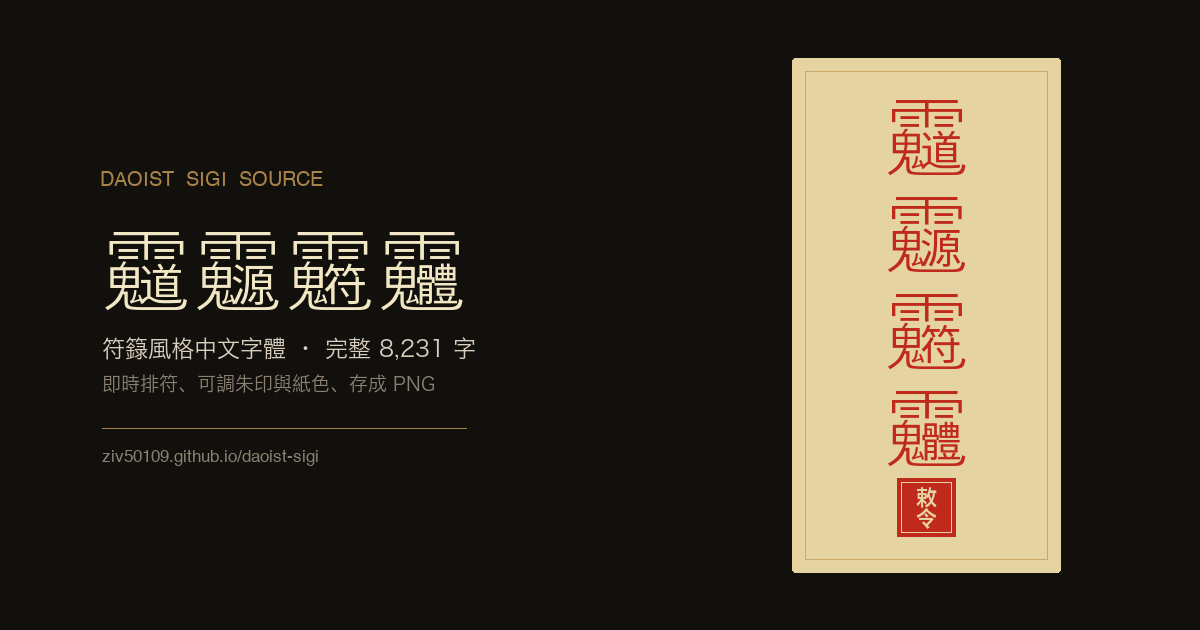
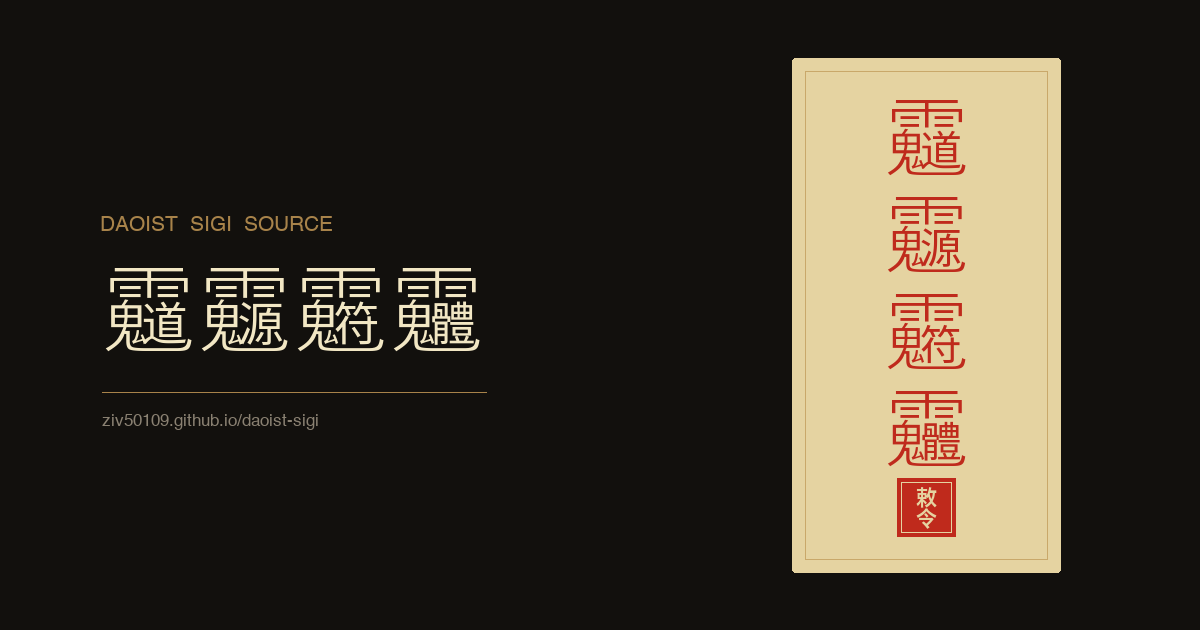
行長可調、空符紙狀態、法印改用系統字體
行長滑桿決定每行幾字，拉到底不換行。排版方向的尺寸直接算出固定長度：
block 元素預設撐滿容器，max-width／max-height 輪不到生效；改用 max-content
配上限則會讓 Chrome 在直排把餘數擠到第一列。直排的字身推進不是 1em，量畫面
上第一個字實際佔的長度再乘字數。

匯出改讀元素實際的 font-family 與字重，法印換字體後匯出才跟畫面一致。

Changed region(s): [[0.0925, 0.3317, 0.4008, 0.6333], [0.0925, 0.6635, 0.2775, 0.754], [0.0617, 0.2714, 0.2775, 0.3016]]

diff --git a/index.html b/index.html
@@ -162,7 +162,9 @@ input[type=range]{flex:1;accent-color:var(--cinnabar);background:transparent}
     repeating-linear-gradient(90deg,rgba(120,86,30,.024) 0 1px,transparent 1px 4px);
   padding:34px 28px;
   box-shadow:0 22px 54px rgba(0,0,0,.55),0 0 0 1px rgba(0,0,0,.25);
-  max-width:100%;
+  /* 不夾在容器寬度內：行長由使用者決定，超出的部分交給 .stage 捲動，
+     匯出量的是符紙整塊 rect，夾住的話會被裁掉 */
+  max-width:none;
 }
 .paper.plain{
   --sheet:#f4f1e8;
@@ -198,14 +200,16 @@ input[type=range]{flex:1;accent-color:var(--cinnabar);background:transparent}
   color:var(--cinnabar);white-space:pre-wrap;word-break:break-word;
   position:relative;z-index:1;
 }
-.text.vert{writing-mode:vertical-rl;text-orientation:upright;max-height:56vh}
+.text.vert{writing-mode:vertical-rl;text-orientation:upright}
 
 /* ---------- 法印。白文印：字為紙色，底為朱 ---------- */
 .seal{
   position:absolute;z-index:2;
   right:12px;bottom:12px;
   writing-mode:vertical-rl;text-orientation:upright;
-  font-family:"DaoistSigiFull","DaoistSigi",serif;
+  /* 印面不用符體：印格只有 3em 見方，雨鬼頭在這個尺寸會糊成一團 */
+  font-family:var(--fb);
+  font-weight:600;
   font-size:var(--seal-fs,22px);
   line-height:1.06;letter-spacing:0;
   color:var(--sheet);
@@ -219,6 +223,22 @@ input[type=range]{flex:1;accent-color:var(--cinnabar);background:transparent}
 .seal[hidden]{display:none}
 /* 有印時把右下留出來，印才不會壓在字上 */
 body.has-seal .paper{padding-bottom:calc(34px + var(--seal-box,60px))}
+
+/* 不換行時符紙跟著內容長大，溢出交給 .stage 捲動，匯出才不會被裁掉 */
+body.no-wrap .paper{max-width:none}
+
+/* 空符紙的提示。字級固定，不跟著滑桿放大 */
+.ghost{
+  position:absolute;inset:0;display:none;
+  align-items:center;justify-content:center;
+  font-family:var(--fb);font-size:13px;letter-spacing:.04em;white-space:nowrap;
+  color:rgba(35,30,24,.4);
+  pointer-events:none;user-select:none;z-index:1;
+}
+.paper.dark .ghost{color:rgba(217,208,192,.4)}
+body.is-empty .ghost{display:flex}
+/* 沒有字時符紙寬高會塌掉，給一張空紙該有的尺寸 */
+body.is-empty .paper{min-width:212px;min-height:302px}
 
 .hint{margin:12px 0 0;font-size:12px;color:var(--mute)}
 .hint .miss{color:var(--cinnabar);font-weight:600}
@@ -254,8 +274,8 @@ footer a{color:var(--gold)}
 <header>
   <p class="eyebrow">Daoist Sigi Source · V1.000</p>
   <h1 class="sigi">道源符體</h1>
-  <p class="sub">又稱雨君鬼臣體，思源黑體的衍生字體，把道教符籙的筆畫元素接在漢字字形上。拿來寫怨念，比 Helvetica 有效。<b>完整 8,231 字字集</b></p>
-  <div class="notice"><b>完整 8,231 字字集</b>，常用字、辦公室怨念用語、法印用字、數字標點都在。字體檔約 1 MB，載入前先用內嵌的 513 字精簡字集頂著；仍超出字集的字會標成缺字並退回系統字體。</div>
+  <p class="sub">又稱雨君鬼臣體，思源黑體的衍生字體，把道教符籙的筆畫元素接在漢字字形上，拿來寫怨念剛好。</p>
+  <div class="notice">常用字、辦公室怨念用語、法印用字、數字標點都在。字體檔約 1 MB，載入前先用內嵌的精簡字集頂著；超出字集的字會標成缺字並退回系統字體。</div>
 </header>
 
 <div class="main">
@@ -276,6 +296,7 @@ footer a{color:var(--gold)}
       <div class="row"><span class="name">字級</span><input type="range" id="size" min="20" max="150" value="68" aria-label="字級"><span class="val" id="sizeV">68</span></div>
       <div class="row"><span class="name">行距</span><input type="range" id="lh" min="100" max="220" value="130" aria-label="行距"><span class="val" id="lhV">1.30</span></div>
       <div class="row"><span class="name">字距</span><input type="range" id="ls" min="-10" max="40" value="4" aria-label="字距"><span class="val" id="lsV">.04</span></div>
+      <div class="row"><span class="name">行長</span><input type="range" id="wrap" min="2" max="25" value="10" aria-label="每行幾字換行，拉到底不換行"><span class="val" id="wrapV">10 字</span></div>
     </div>
 
     <div class="panel">
@@ -313,7 +334,8 @@ footer a{color:var(--gold)}
     <div class="stage">
       <div class="paper" id="sheet">
         <div class="text vert sigi" id="text"></div>
-        <div class="seal sigi" id="seal" aria-label="法印">敕令</div>
+        <div class="ghost" id="ghost">在左側書字</div>
+        <div class="seal" id="seal" aria-label="法印">敕令</div>
       </div>
     </div>
     <p class="hint" id="hint"></p>
@@ -323,14 +345,13 @@ footer a{color:var(--gold)}
 <section class="glyphs">
   <div class="gtitle">
     <h2>逐字對照</h2>
-    <p>上為符體，下為系統字體與碼位</p>
   </div>
   <div class="grid" id="grid"></div>
 </section>
 
 <footer>
   字體：Losketch／道源符體 V1.000，SIL Open Font License。
-  原始檔：<a href="https://github.com/Losketch/daoist-sigi-source/releases" target="_blank" rel="noopener">GitHub Releases</a>（倉庫已封存，不再更新）
+  原始檔：<a href="https://github.com/Losketch/daoist-sigi-source/releases" target="_blank" rel="noopener">GitHub Releases</a>
 </footer>
 </div>
 
@@ -371,7 +392,10 @@ const el = id => document.getElementById(id);
 const ta=el('ta'), textEl=el('text'), paperEl=el('sheet'), sealEl=el('seal'),
       hintEl=el('hint'), gridEl=el('grid');
 
-const state = {mode:'vert', size:68, lh:1.30, ls:0.04, ink:'#bf2a1c', paper:'sigil', seal:'敕令'};
+const state = {mode:'vert', size:68, lh:1.30, ls:0.04, wrap:10, ink:'#bf2a1c', paper:'sigil', seal:'敕令'};
+
+/* 行長滑桿拉到底就是不換行 */
+const NOWRAP = 25;
 
 /* 雲紋先載成 Image，匯出時才畫得出同一層紋 */
 let cloudImg = null;
@@ -447,24 +471,67 @@ el('inks').querySelectorAll('.sw').forEach(b=>{
 el('size').oninput = e => { state.size=+e.target.value; el('sizeV').textContent=state.size; render(); };
 el('lh').oninput   = e => { state.lh=+e.target.value/100; el('lhV').textContent=state.lh.toFixed(2); render(); };
 el('ls').oninput   = e => { state.ls=+e.target.value/100; el('lsV').textContent=state.ls.toFixed(2); render(); };
+el('wrap').oninput = e => {
+  state.wrap=+e.target.value;
+  el('wrapV').textContent = state.wrap>=NOWRAP ? '不換行' : state.wrap+' 字';
+  render();
+};
 ta.oninput = render;
 
 function esc(s){return s.replace(/[&<>]/g,m=>({'&':'&amp;','<':'&lt;','>':'&gt;'}[m]));}
 
+/* 一個字在排版方向上實際佔的長度（含字距）。量之前 maxWidth/maxHeight 必須是放開的 */
+function charStep(){
+  const n = textEl.firstChild;
+  if(!n || !n.nodeValue) return 0;
+  const r = document.createRange();
+  r.setStart(n, 0); r.setEnd(n, 1);
+  const rc = r.getBoundingClientRect();
+  return state.mode==='vert' ? rc.height : rc.width;
+}
+
 function render(){
   const raw = ta.value;
-  textEl.textContent = raw.length ? raw : "空白的符紙。左邊書幾個字，怨念自己會顯形。";
+  const empty = !raw.length;
+  document.body.classList.toggle('is-empty', empty);
+
+  textEl.textContent = raw;
   textEl.className = 'text sigi' + (state.mode==='vert' ? ' vert' : '');
   textEl.style.fontSize = state.size+'px';
   textEl.style.lineHeight = state.lh;
   textEl.style.letterSpacing = state.ls+'em';
   textEl.style.color = state.ink;
-  textEl.style.maxWidth = state.mode==='horiz' ? '10em' : '';
+
+  /* 行長。三件事要注意：
+     一、直排的字身推進不是 1em（符體的 vertical advance 比字面大得多），所以量畫面上
+     第一個字實際佔多少再乘字數。
+     二、排版方向的尺寸得自己給，block 元素預設撐滿容器可用空間，max-width／max-height
+     永遠輪不到生效。
+     三、給的是固定長度而不是 max-content 配上限，後者在直排會讓 Chrome 把餘數擠到第一列
+     （10 字排成 4／10／10）。 */
+  const noWrap = state.wrap >= NOWRAP;
+  const axis = state.mode==='horiz' ? 'width' : 'height';
+  document.body.classList.toggle('no-wrap', noWrap);
+  textEl.style.whiteSpace = noWrap ? 'pre' : 'pre-wrap';
+  textEl.style.width = textEl.style.height = '';
+  textEl.style.maxWidth = '';
+  textEl.style.maxHeight = 'none';
+  if(!empty){
+    if(noWrap){
+      textEl.style[axis] = 'max-content';
+    }else{
+      /* 內容不到設定行長時就照內容縮，不然符紙會拖出一截空白 */
+      const longest = Math.max(...raw.split('\n').map(s => Array.from(s).length));
+      const cells = Math.min(longest, state.wrap);
+      const step = charStep() || (1+state.ls)*state.size;
+      textEl.style[axis] = Math.ceil(cells*step) + 1 + 'px';
+    }
+  }
 
   paperEl.className = 'paper' + (state.paper==='plain' ? ' plain' : state.paper==='dark' ? ' dark' : '');
 
-  /* 法印隨字級縮放，但不跟著誇張放大 */
-  const on = state.seal !== 'none';
+  /* 法印隨字級縮放，但不跟著誇張放大。空符紙不蓋印 */
+  const on = state.seal !== 'none' && !empty;
   document.body.classList.toggle('has-seal', on);
   sealEl.hidden = !on;
   if(on){
@@ -479,9 +546,10 @@ function render(){
 
   const chars = Array.from(new Set(raw.replace(/\s/g,'')));
   const missing = chars.filter(c=>!covered(c));
-  hintEl.innerHTML = missing.length
-    ? `這些字沒有符體字形，顯示的是系統字體：<span class="miss">${esc(missing.join(' '))}</span>`
-    : `${chars.length} 個不重複字，全部有符體字形。`;
+  hintEl.innerHTML = empty ? ''
+    : missing.length
+      ? `這些字沒有符體字形，顯示的是系統字體：<span class="miss">${esc(missing.join(' '))}</span>`
+      : `${chars.length} 個不重複字，全部有符體字形。`;
 
   gridEl.innerHTML='';
   chars.slice(0,120).forEach(c=>{
@@ -545,7 +613,8 @@ function paintChars(g, root, pr){
     const size = parseFloat(cs.fontSize) || 16;
     const ls = parseFloat(cs.letterSpacing) || 0;
     const vert = cs.writingMode.indexOf('vertical') === 0;
-    g.font = `${size}px ${SIGIL},${FB}`;
+    /* 照元素實際的 font-family 與字重畫，法印不用符體時匯出才跟畫面對得上 */
+    g.font = `${cs.fontWeight} ${size}px ${cs.fontFamily}`;
     g.fillStyle = cs.color;
     const fm = g.measureText('字');
     const asc  = fm.fontBoundingBoxAscent  || size*0.88;

diff --git a/README.md b/README.md
@@ -2,8 +2,6 @@
 
 符籙風格中文字體的展示頁。輸入文字，挑法式與紙色，即時排成符紙，可存成 PNG。
 
-**線上版：https://ziv50109.github.io/daoist-sigi/**
-
 字體又稱雨君鬼臣體，思源黑體的衍生字體，把道教符籙的筆畫元素接在漢字字形上。字體由 [Losketch](https://github.com/Losketch/daoist-sigi-source) 製作，本 repo 只是它的展示頁。
 
 ## 功能
@@ -12,29 +10,10 @@
 - **朱印**：硃砂、墨、金、素
 - **紙**：黃籙、宣紙、墨底
 - **法印**：敕令、敕雷令、急急如律令、無
-- **字級／行距／字距**滑桿即時調整
+- **字級／行距／字距／行長**滑桿即時調整，行長拉到底就不換行
 - **缺字偵測**：同一個字用「符體＋備援」與「純備援」各畫進 canvas 比對像素，字集沒收的字會標出來並退回系統字體
 - **下載 PNG**：符紙連暗紋、法印一起輸出
 - **字表**：列出目前字集實際涵蓋的字
-
-## 檔案
-
-| 檔案 | 用途 |
-|---|---|
-| `index.html` | 單檔頁面，樣式與邏輯全部內嵌，另含 513 字精簡字集（base64） |
-| `sigi.woff2` | 完整 8,231 字字集 |
-| `og.png` | 社群分享預覽圖，1200×630 |
-| `OFL.txt` | 字體授權全文 |
-| `.nojekyll` | 停用 GitHub Pages 的 Jekyll 處理 |
-
-## 字體載入
-
-`index.html` 裡的 `FONT_URL` 指向同目錄的 `sigi.woff2`。頁面先用內嵌的 513 字精簡字集渲染，完整字集下載完成後換上；下載失敗則整頁留在精簡字集，功能不受影響。
-
-`FontFace` 一律以 anonymous CORS 模式取檔，所以：
-
-- head 裡的 `<link rel="preload">` 必須帶 `crossorigin`，少了它字體會被下載兩次
-- 把 `FONT_URL` 換到別的網域（CDN）時，該來源必須回 CORS 標頭
 
 ## 本機預覽
 
@@ -42,8 +21,6 @@
 python3 -m http.server 8000
 # → http://127.0.0.1:8000/
 ```
-
-用 `file://` 直接開會載不到 `sigi.woff2`（opaque origin 過不了 CORS），頁面會退回精簡字集。
 
 ## 授權
 
